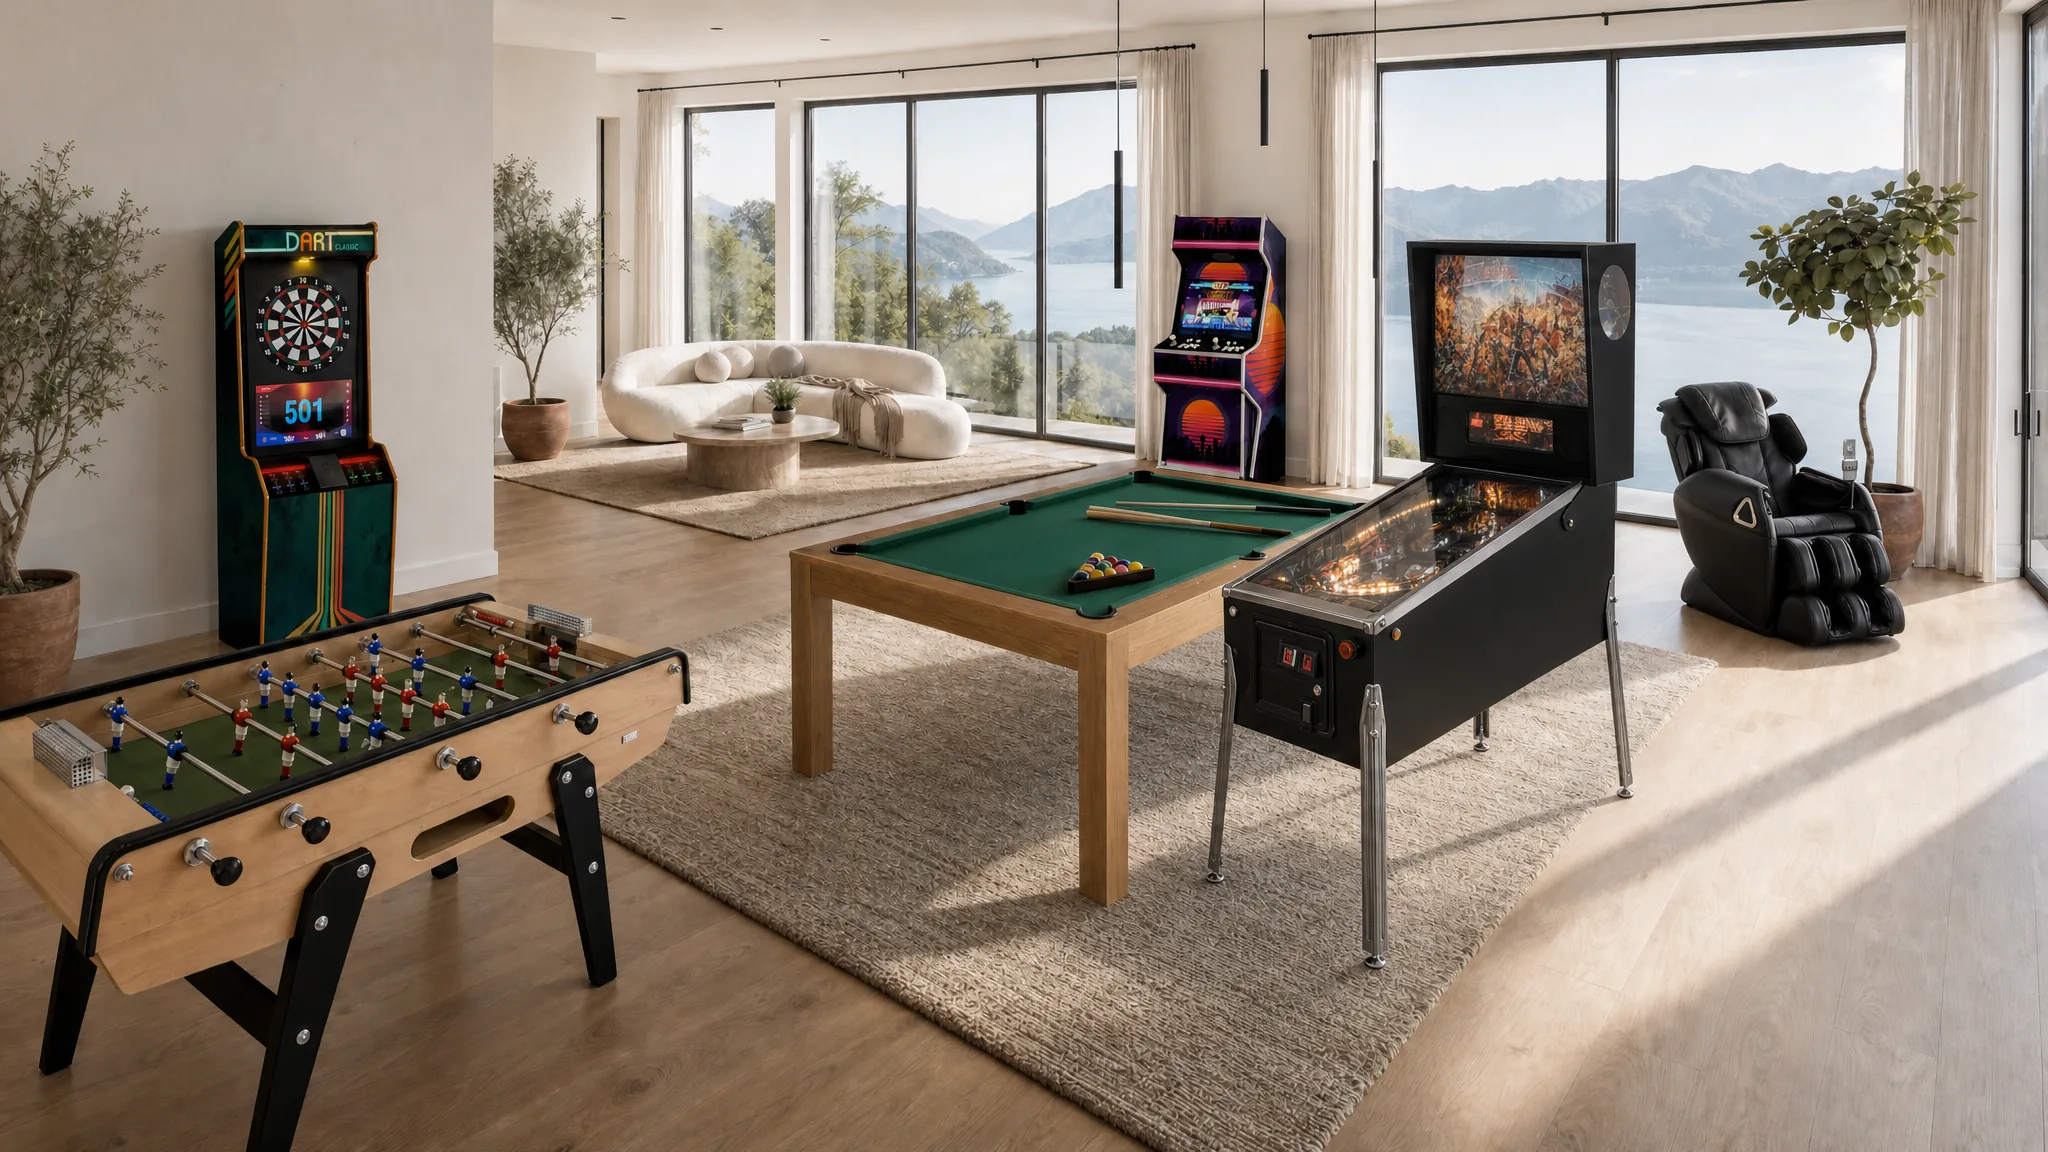
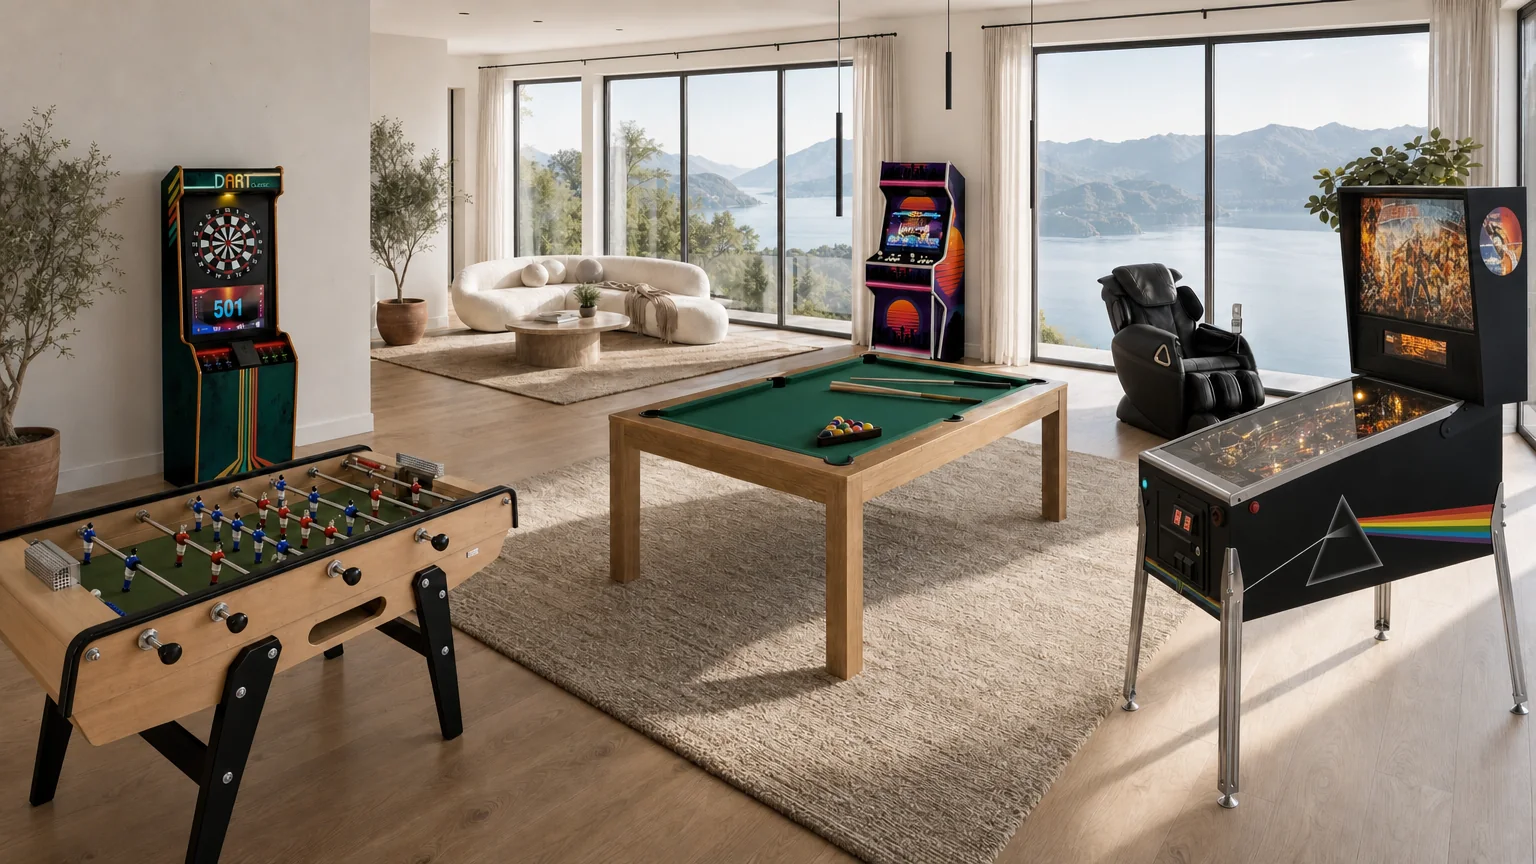
Panorama : flipper au premier plan à droite pour équilibrer la pièce, infobulle sans vignette, blocs sans « Dans la scène »

diff --git a/src/data/panorama.ts b/src/data/panorama.ts
@@ -29,16 +29,17 @@ export const room: Scene & { hotspots: Hotspot[] } = {
   id: 'piece',
   image: asset('/img/panorama/piece.webp'),
   alt: "Grande pièce lumineuse aux baies vitrées ouvertes sur un lac et des montagnes, avec un billard, un baby-foot, une borne de fléchettes, un flipper, un fauteuil massant et une borne d'arcade",
-  ratio: 2048 / 1152,
+  ratio: 1536 / 864,
   focus: [0.5, 0.5],
   hotspots: [
-    { slug: 'flechettes', x: 14.8, y: 29.5 },
-    { slug: 'baby-foot', x: 16.5, y: 61 },
-    { slug: 'billard', x: 50, y: 48 },
-    { slug: 'borne-arcade', x: 59.5, y: 26.5 },
-    { slug: 'flipper-numerique', x: 74.3, y: 30 },
-    { slug: 'fauteuil-massant', x: 86.5, y: 42 },
-  ],}
+    { slug: 'flechettes', x: 14.8, y: 26.5 },
+    { slug: 'baby-foot', x: 17, y: 64 },
+    { slug: 'billard', x: 54.5, y: 46 },
+    { slug: 'borne-arcade', x: 59.6, y: 26.5 },
+    { slug: 'fauteuil-massant', x: 76.8, y: 39 },
+    { slug: 'flipper-numerique', x: 84.5, y: 52 },
+  ],
+}
 
 /** Ambiance de couleur d'un univers, tirée de sa photo (voir `.pano-ch[data-tone]`). */
 export type Tone = 'nuit' | 'sauge' | 'sable'
@@ -51,15 +52,13 @@ export type Chapter = Scene & {
   tone: Tone
   /** Ce que la photo montre de la pièce, en légende. */
   caption: string
-  /** Produits visibles sur la photo, du plus présent au moins présent. */
-  products: string[]
   title: string
   text: string
   points: string[]
   href: string
 }
 
-type ChapterInput = Pick<Chapter, 'audience' | 'label' | 'tone' | 'caption' | 'products' | 'alt' | 'focus'> & {
+type ChapterInput = Pick<Chapter, 'audience' | 'label' | 'tone' | 'caption' | 'alt' | 'focus'> & {
   image: string
 }
 
@@ -88,7 +87,6 @@ export const chapters: Chapter[] = [
     label: 'Bar & commerce',
     tone: 'nuit',
     caption: 'La pièce, version bar, à la tombée de la nuit',
-    products: ['baby-foot', 'billard', 'flechettes', 'borne-arcade'],
     image: '/img/panorama/bar.webp',
     alt: 'La même pièce devenue un bar au crépuscule : des clients jouent au baby-foot, au billard et aux fléchettes devant le comptoir et la vue sur le lac',
     focus: [0.45, 0.5],
@@ -98,7 +96,6 @@ export const chapters: Chapter[] = [
     label: 'Entreprise',
     tone: 'sauge',
     caption: "La pièce, version espace de pause d'entreprise",
-    products: ['baby-foot', 'billard', 'fauteuil-massant', 'flechettes', 'borne-arcade'],
     image: '/img/panorama/entreprise.webp',
     alt: "La même pièce devenue l'espace de pause d'une entreprise : des collègues jouent au baby-foot, discutent près du billard et se détendent dans le fauteuil massant",
     focus: [0.45, 0.5],
@@ -108,7 +105,6 @@ export const chapters: Chapter[] = [
     label: 'Chez moi',
     tone: 'sable',
     caption: 'La pièce, version salon de famille, un dimanche',
-    products: ['baby-foot', 'borne-arcade', 'fauteuil-massant', 'billard', 'flechettes'],
     image: '/img/panorama/maison.webp',
     alt: "La même pièce devenue un salon familial : un père et son fils au baby-foot, un enfant à la borne d'arcade, une mère dans le fauteuil massant et un chien sur le tapis",
     focus: [0.45, 0.5],

diff --git a/src/app/panorama.css b/src/app/panorama.css
@@ -446,8 +446,8 @@
   left: calc(100% + 4px);
   display: flex;
   align-items: center;
-  gap: 12px;
-  padding: 6px 6px 6px 6px;
+  gap: 14px;
+  padding: 6px 6px 6px 18px;
   border-radius: 999px;
   background: rgba(16, 16, 18, 0.76);
   -webkit-backdrop-filter: blur(14px) saturate(140%);
@@ -467,6 +467,7 @@
   left: auto;
   right: calc(100% + 4px);
   flex-direction: row-reverse;
+  padding: 6px 18px 6px 6px;
   transform: translate(10px, -50%) scale(0.96);
   transform-origin: right center;
 }
@@ -475,22 +476,6 @@
   opacity: 1;
   transform: translate(0, -50%) scale(1);
   pointer-events: auto;
-}
-.pano-hotspot__thumb {
-  display: inline-flex;
-  flex-shrink: 0;
-  align-items: center;
-  justify-content: center;
-  width: 46px;
-  height: 46px;
-  overflow: hidden;
-  border-radius: 999px;
-  background: #f3efe9;
-}
-.pano-hotspot__thumb img {
-  width: 82%;
-  height: 82%;
-  object-fit: contain;
 }
 .pano-hotspot__body {
   display: flex;
@@ -534,7 +519,6 @@
   .pano-hotspot[data-flip] .pano-hotspot__card {
     transform: translate(0, -50%);
   }
-  .pano-hotspot__thumb,
   .pano-hotspot__go,
   .pano-hotspot__price {
     display: none;
@@ -876,43 +860,6 @@
   height: 22px;
   margin-top: -1px;
   border-radius: 999px;
-  background: var(--ch-accent);
-  color: var(--ch-accent-ink);
-}
-
-/* Produits visibles sur la photo */
-.pano-ch__scene {
-  margin-top: 22px;
-  padding-top: 18px;
-  border-top: 1px solid var(--ch-line);
-}
-.pano-ch__scene p {
-  font-size: 11px;
-  font-weight: 600;
-  letter-spacing: 0.2em;
-  text-transform: uppercase;
-  color: var(--ch-soft);
-}
-.pano-ch__scene ul {
-  display: flex;
-  flex-wrap: wrap;
-  gap: 6px;
-  margin-top: 10px;
-}
-.pano-ch__scene a {
-  display: inline-flex;
-  align-items: center;
-  height: 32px;
-  padding: 0 14px;
-  border-radius: 999px;
-  background: var(--ch-chip);
-  font-size: 13.5px;
-  font-weight: 500;
-  transition:
-    background-color 0.25s,
-    color 0.25s;
-}
-.pano-ch__scene a:hover {
   background: var(--ch-accent);
   color: var(--ch-accent-ink);
 }

diff --git a/src/components/panorama/PanoramaChapters.tsx b/src/components/panorama/PanoramaChapters.tsx
@@ -15,13 +15,7 @@ const clamp = (v: number) => Math.min(1, Math.max(0, v))
  * --p passe de 0 à 1 pendant que la section monte dans l'écran ; la photo
  * arrive d'en dessous, le texte glisse depuis son bord, ligne après ligne.
  */
-export function PanoramaChapters({
-  chapters,
-  products,
-}: {
-  chapters: Chapter[]
-  products: { slug: string; short: string; href: string }[]
-}) {
+export function PanoramaChapters({ chapters }: { chapters: Chapter[] }) {
   const refs = useRef<(HTMLElement | null)[]>([])
 
   useEffect(() => {
@@ -53,7 +47,6 @@ export function PanoramaChapters({
 
   // Délai de chaque ligne de texte, en part de la progression : la photo part la première.
   const d = (n: number) => ({ '--d': 0.15 + n * 0.07 }) as CSSProperties
-  const bySlug = Object.fromEntries(products.map((p) => [p.slug, p]))
 
   return (
     <div className="pano-chapters">
@@ -93,19 +86,7 @@ export function PanoramaChapters({
                 </li>
               ))}
             </ul>
-            <div className="pano-ch__scene pano-in" style={d(4)}>
-              <p>Dans la scène</p>
-              <ul>
-                {c.products.map((slug) =>
-                  bySlug[slug] ? (
-                    <li key={slug}>
-                      <Link href={bySlug[slug].href}>{bySlug[slug].short}</Link>
-                    </li>
-                  ) : null,
-                )}
-              </ul>
-            </div>
-            <div className="pano-ch__actions pano-in" style={d(5)}>
+            <div className="pano-ch__actions pano-in" style={d(4)}>
               <Link
                 href={c.href}
                 className="pano-ch__cta"

diff --git a/src/components/panorama/PanoramaHero.tsx b/src/components/panorama/PanoramaHero.tsx
@@ -6,7 +6,7 @@ import { ArrowDown, ArrowUpRight } from 'lucide-react'
 import type { Chapter, Hotspot, Scene } from '@/data/panorama'
 import { ctaClick } from '@/lib/analytics'
 
-type Product = { slug: string; name: string; price: string; href: string; image: string }
+type Product = { slug: string; name: string; price: string; href: string }
 
 /** Défile jusqu'à la section `id`, sans animation si l'utilisateur les réduit. */
 export function scrollToSection(id: string) {
@@ -71,10 +71,6 @@ export function PanoramaHero({
                 <Link href={product.href} className="pano-hotspot__link" aria-label={`${product.name}, ${product.price}`}>
                   <span className="pano-hotspot__dot" aria-hidden="true" />
                   <span className="pano-hotspot__card" aria-hidden="true">
-                    <span className="pano-hotspot__thumb">
-                      {/* eslint-disable-next-line @next/next/no-img-element */}
-                      <img src={product.image} alt="" loading="lazy" />
-                    </span>
                     <span className="pano-hotspot__body">
                       <span className="pano-hotspot__name">{product.name}</span>
                       <span className="pano-hotspot__price">{product.price}</span>

diff --git a/src/app/page.tsx b/src/app/page.tsx
@@ -60,7 +60,7 @@ export default function Home() {
 
       <PanoramaHero room={room} chapters={chapters} products={collection} />
 
-      <PanoramaChapters chapters={chapters} products={collection} />
+      <PanoramaChapters chapters={chapters} />
 
       {/* --- Les collections ------------------------------------------- */}
       <section className="pano-section">
